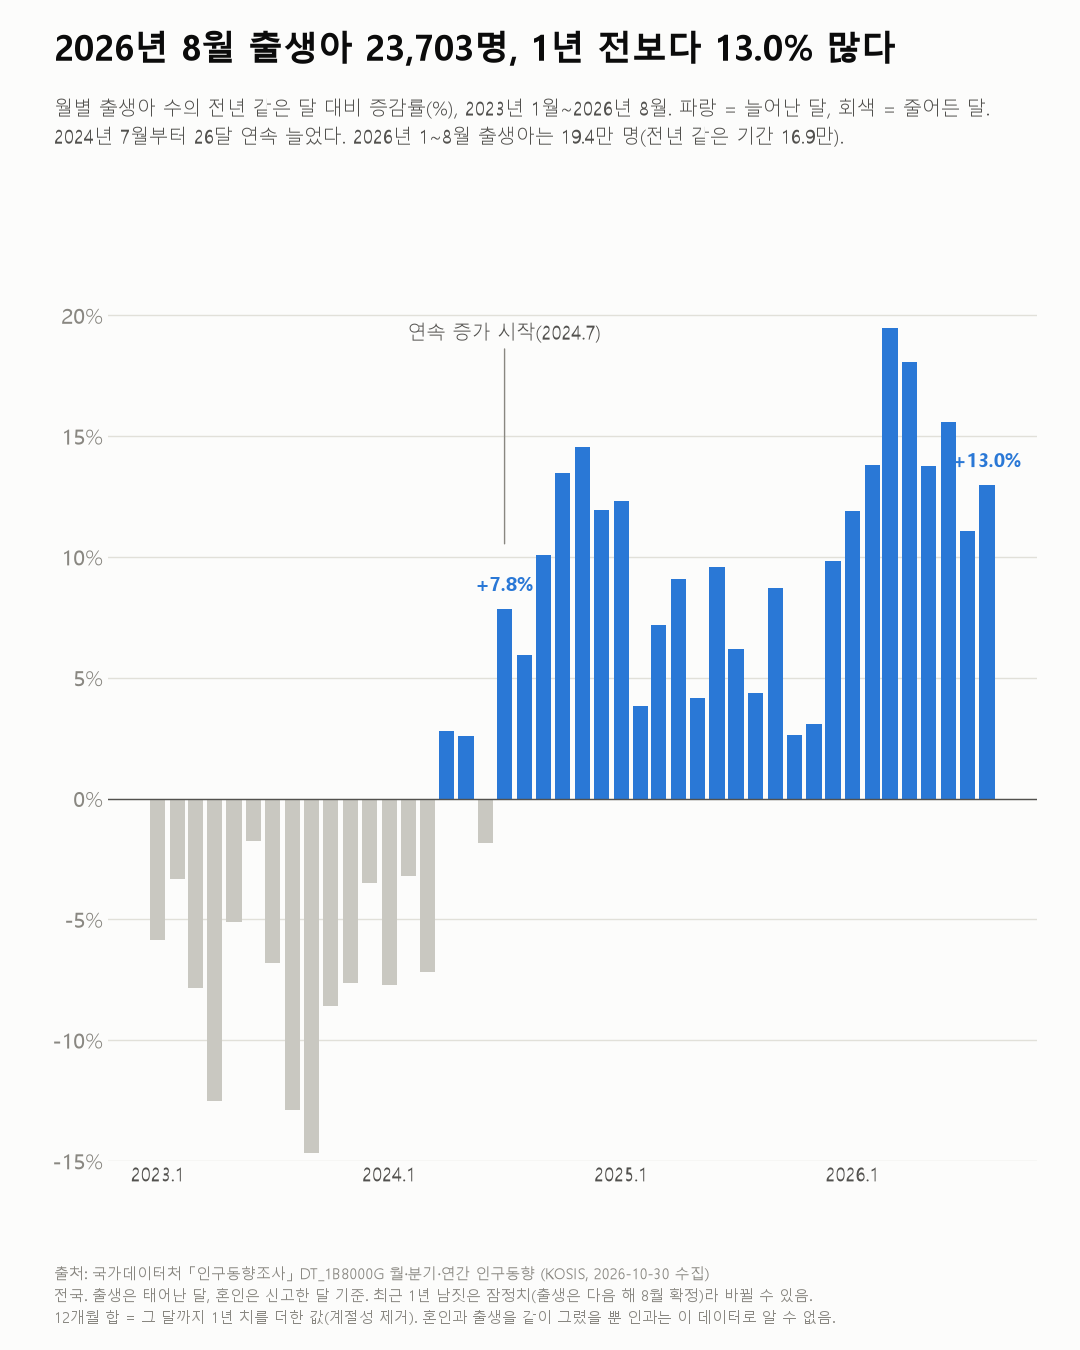
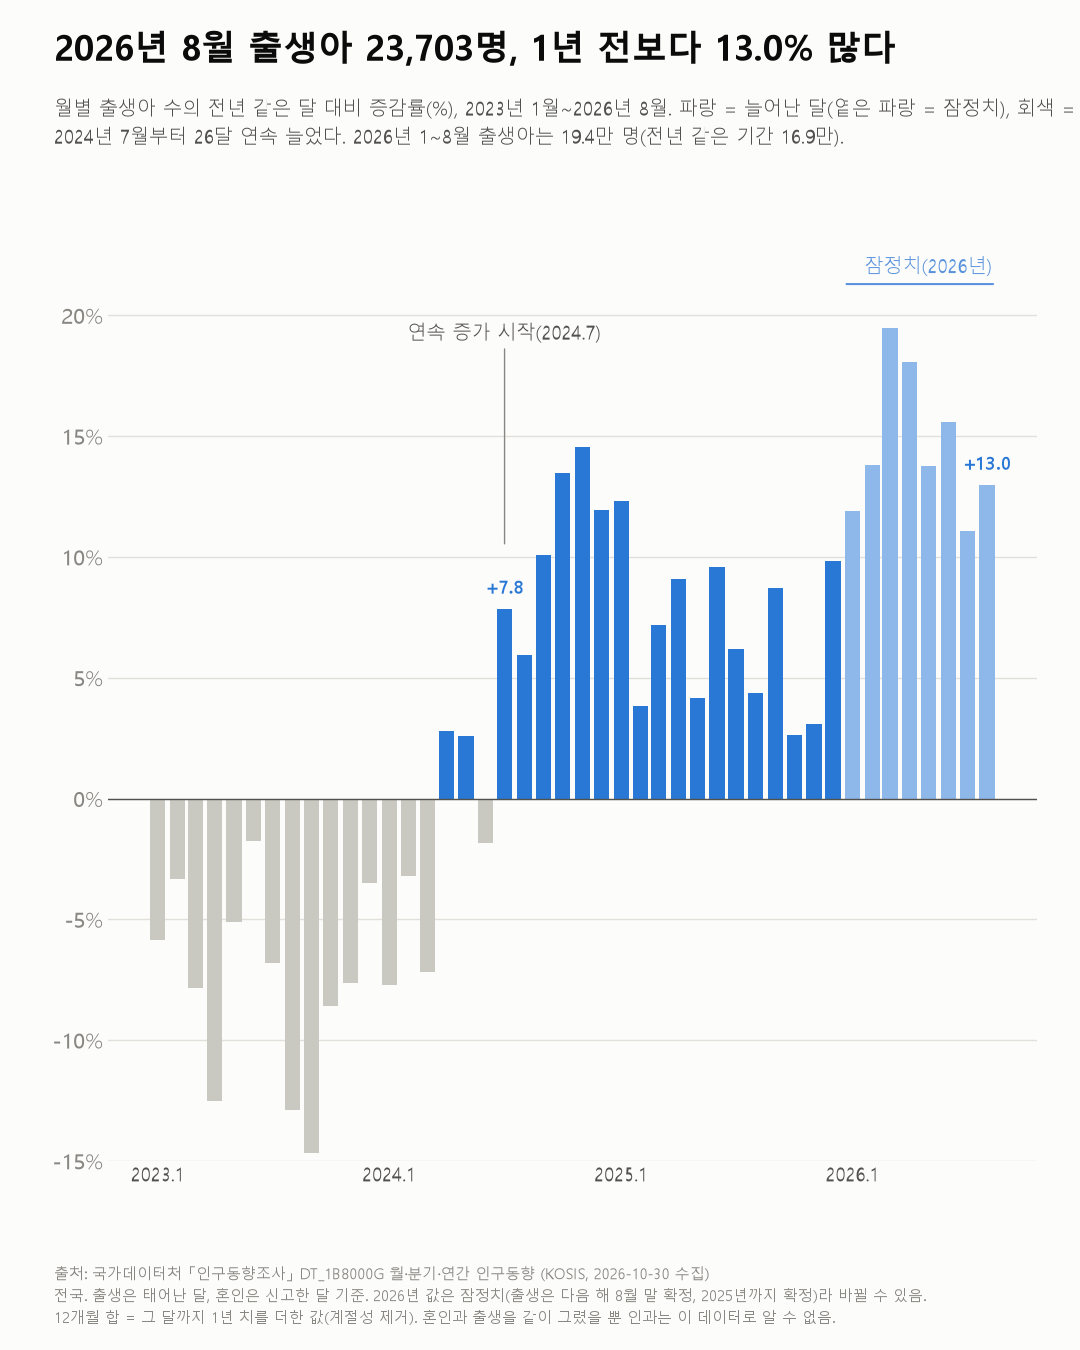
사이트 갱신

diff --git a/2026-10_birth-rebound/index.html b/2026-10_birth-rebound/index.html
@@ -48,7 +48,7 @@
 </table></div>
 <ul>
 <li>출생은 태어난 달, 혼인은 신고한 달 기준.</li>
-<li><strong>최근 1년 남짓은 잠정치</strong>다(출생은 다음 해 8월 말 확정). 전년 값이 확정되며 바뀌어, 보도 당시 증가율과 0.2%p 안팎 다를 수 있다(예: 2026년 5월 +13.6%(보도) vs +13.8%(지금 KOSIS)).</li>
+<li><strong>2026년 값은 잠정치</strong>다(출생은 다음 해 8월 말 확정, 2025년까지 확정). 차트 2에서 옅은 파랑으로 표시했다. 비교 기준인 전년 값이 확정되며 바뀌어, 보도 당시 증가율과 0.2%p 안팎 다를 수 있다(예: 2026년 5월 +13.6%(보도) vs +13.8%(지금 KOSIS)).</li>
 <li>월별 값은 계절성이 커서 <strong>전년 같은 달과 비교</strong>하거나 <strong>최근 12개월 합</strong>으로 봤다.</li>
 <li>'연속 증가' = 전년 같은 달보다 출생아가 많은 달이 이어진 수.</li>
 <li>교차 확인: 2026년 6월 출생아 23,111명(15.6%↑)·2024년 7월부터 24개월 연속 증가, 2026년 5월 23,160명·23개월 연속이 보도와 같다. 8월 값(23,703명)은 KOSIS에 있지만 보도는 찾지 못했다.</li>
